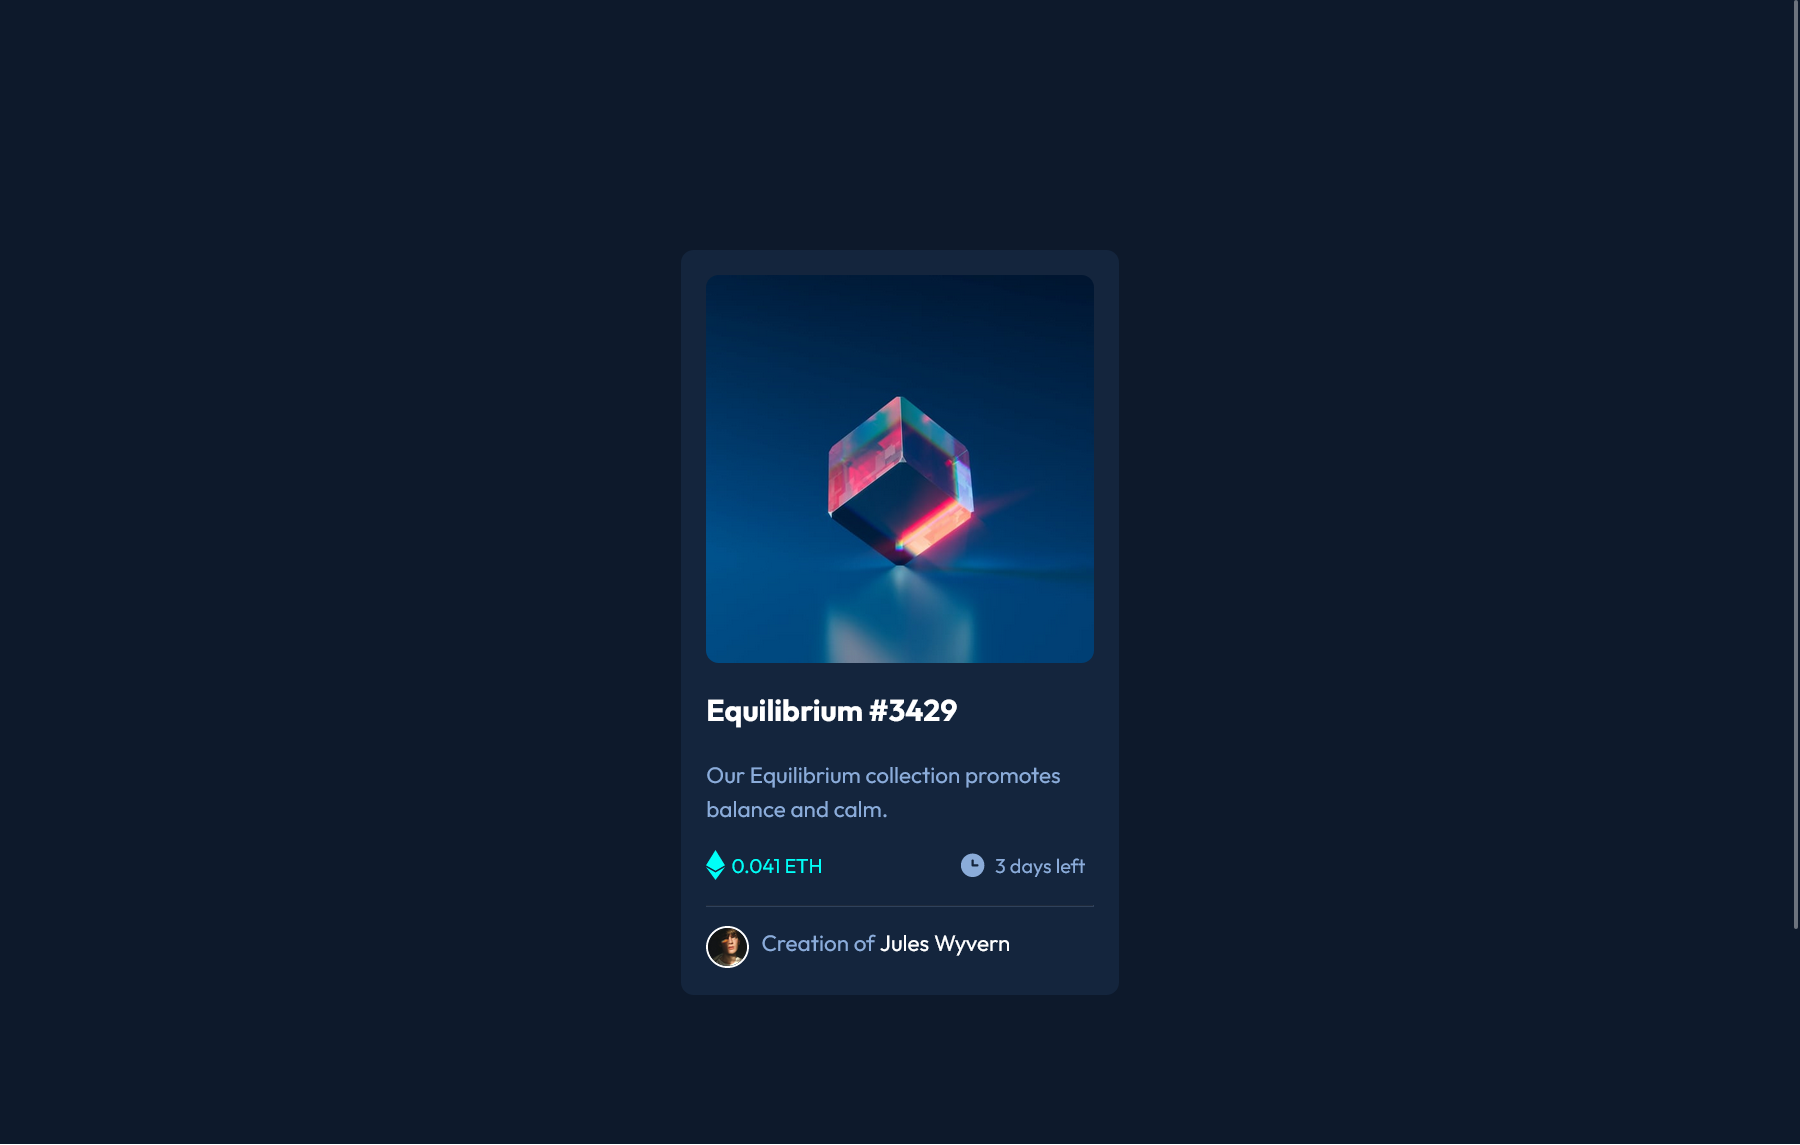
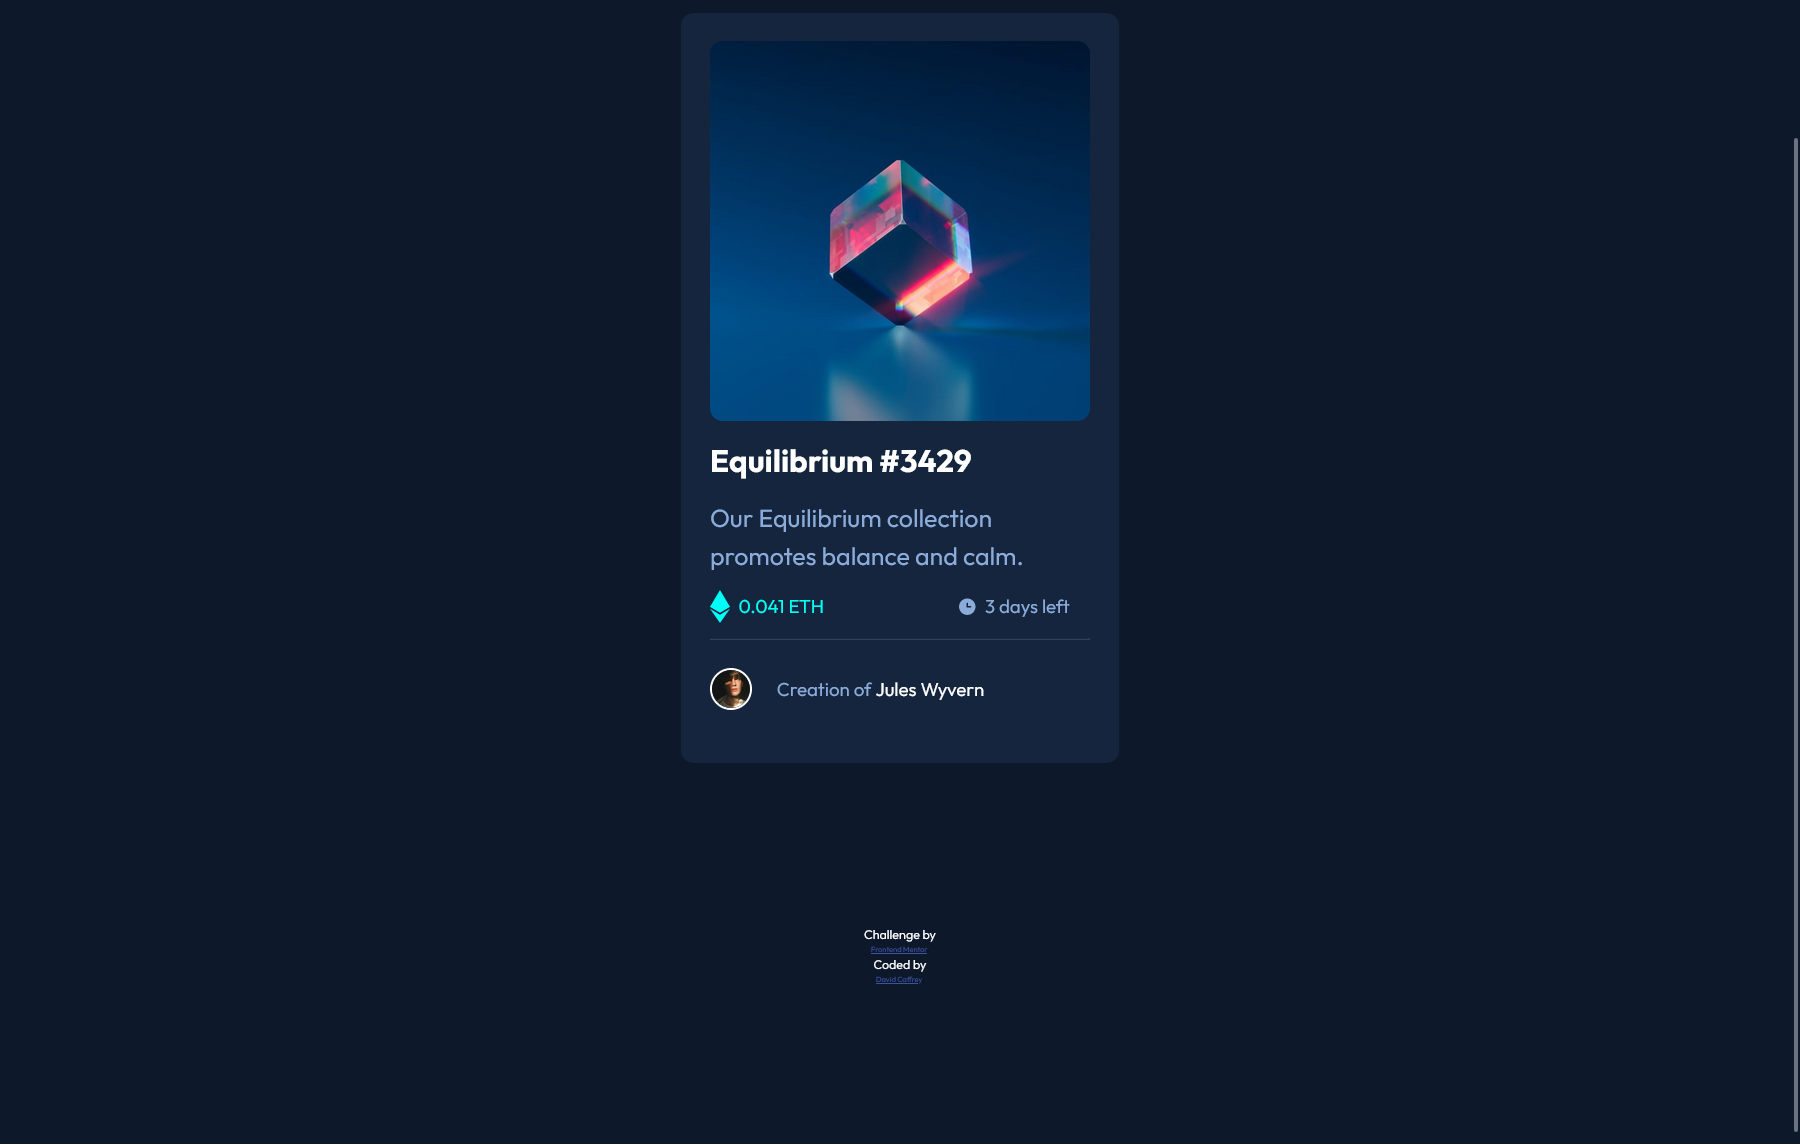
project complete

diff --git a/style.css b/style.css
@@ -110,11 +110,11 @@ body {
 
 .container {
   width: 35rem;
-  height: 50rem;
+  height: 60rem;
   background-color: var(--main-card-bg-color);
   margin: 13rem auto;
   border-radius: 10px;
-  padding: 1.25rem;
+  padding: 2.3rem;
 }
 
 .main-image-container{
@@ -144,8 +144,8 @@ body {
   display: flex;
   align-items: center;
   justify-content: center;
-  width: 90%;
-  margin: .75rem auto .75rem auto;
+  width: 100%;
+ 
 }
 
 .eye-icon{
@@ -157,8 +157,8 @@ body {
 
 .main-image{
   border-radius: 10px;
-  width: 90%;
-  margin: .75rem auto .75rem auto;
+  width: 100%;
+  
 }
 
 
@@ -192,16 +192,17 @@ body {
   display: flex;
   width: 30%;
   justify-content: space-between;
-  
+  align-items: center;
 }
 
 .eth-icon{
   display: inline-block;
-  width: 2rem;
+  width: 16px;
 }
 
 .eth-price{
   color: var(--main-cyan);
+  font-size: 1.5rem;
   
 }
 
@@ -209,6 +210,7 @@ body {
   display: flex;
   width: 35%;
   gap: 5%;
+  align-items: center;
 }
 
 .clock-icon{
@@ -218,27 +220,31 @@ body {
 
 .time-remaining{
   color: var(--main-soft-blue);
+  font-size: 1.5rem;
 }
 
 .divider{
   color: var(--main-dark-blue);
-  margin: 1.25rem 0 .75rem 0;
+  margin: 1.25rem 0 2.25rem 0;
 }
 .profile-container{
   display: flex;
+ 
+  
 }
 
 .profile-image{
   width: 11%;
   border: 2px solid var(--main-white);
   border-radius: 50%;
-  margin-right: .75rem;
-  margin-top: 0.3rem;
+
 }
 
 .profile-text{
   color: var(--main-soft-blue);
-  margin-top: 0.3rem;
+  font-size: 1.5rem;
+  padding-left: 2rem;
+  padding-top: .5rem;
 }
 
 .profile-name{
